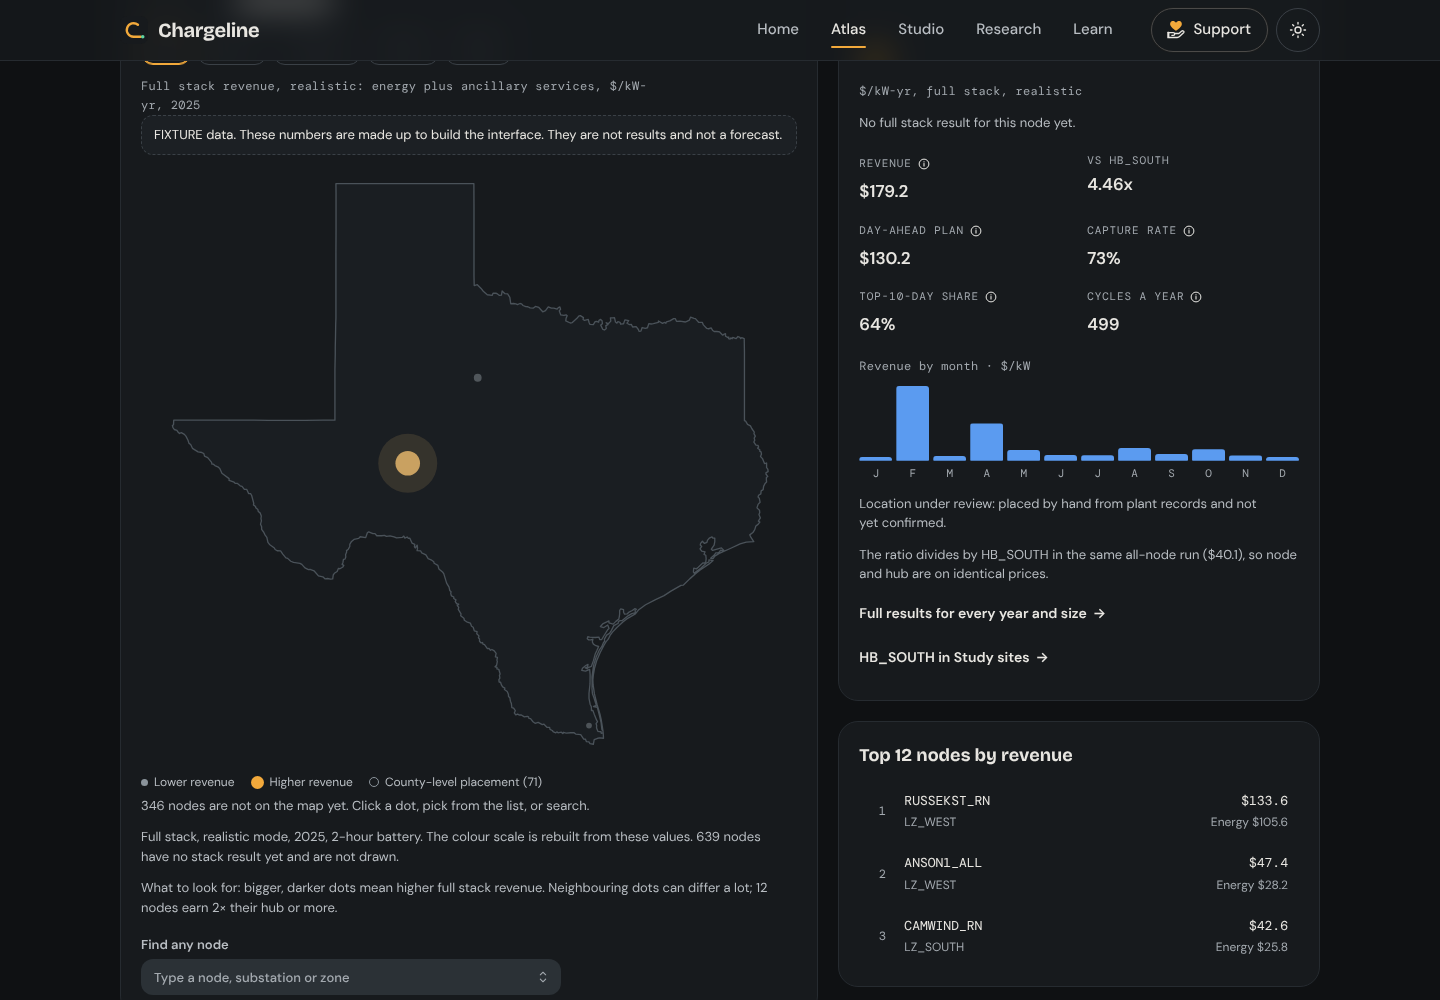
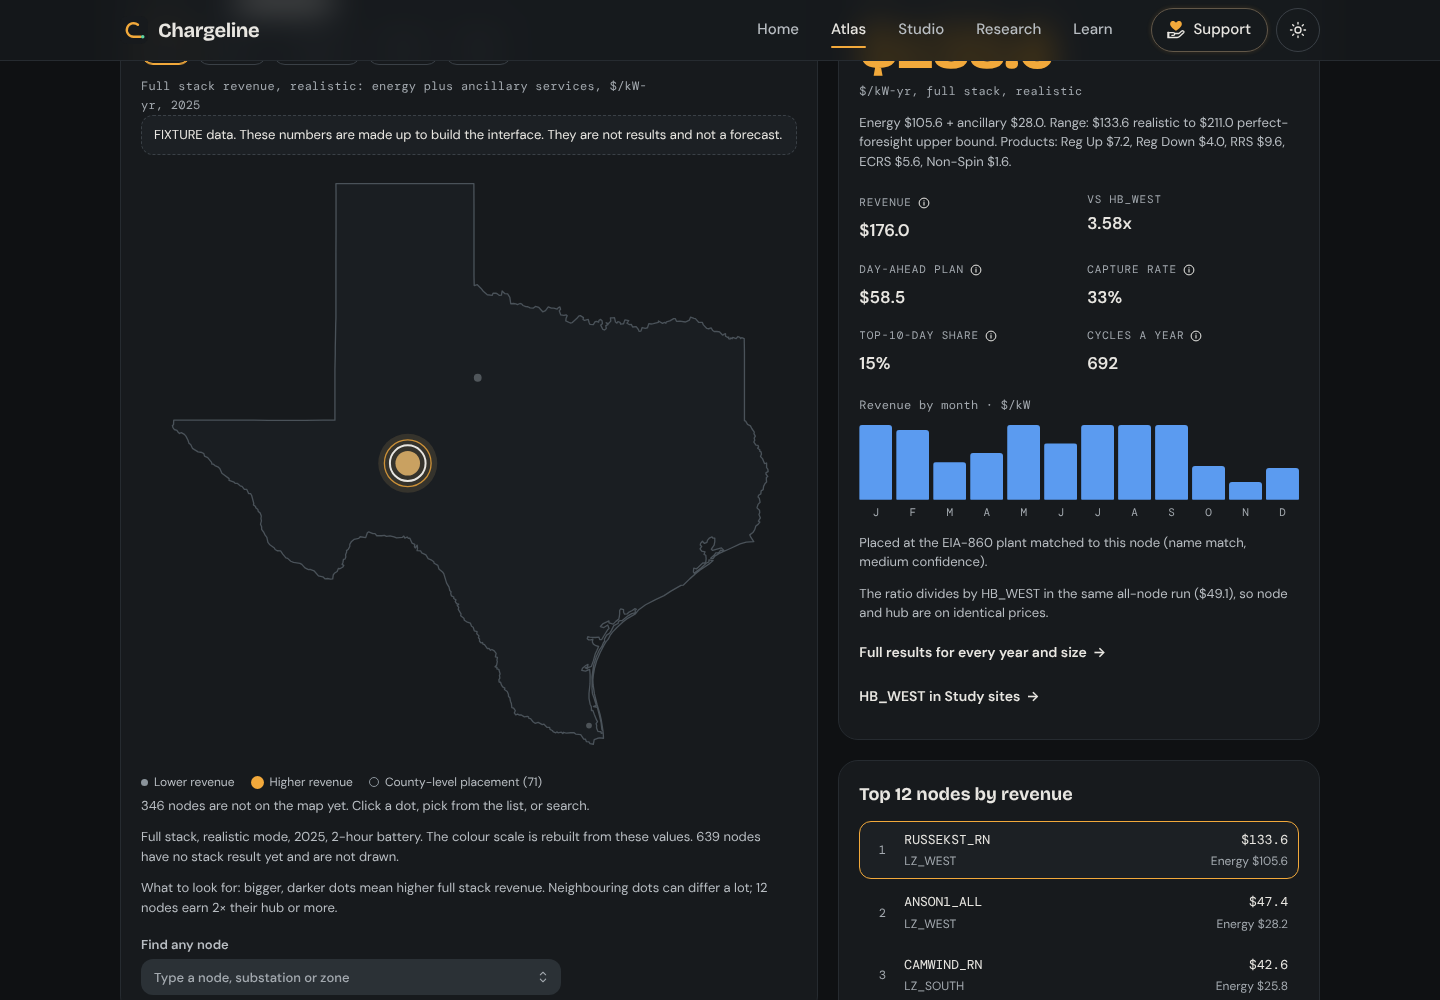
v4 step 6: final screenshots and progress file
Claude-Session: https://claude.ai/code/session_01KZpHqFQ8edx3NTcXd2bMX1

diff --git a/docs/v4-progress-6.md b/docs/v4-progress-6.md
@@ -1,22 +1,29 @@
 # v4 Step 6 progress: revenue stack UI (C)
 
-Branch `v4/6-stack-ui`, from `main`. Plan: PLAN_V4.md Step 6 (attached to the session; `docs/PLAN_V4.md` is not on `main` yet).
+Branch `v4/6-stack-ui`, from `main`. Plan: PLAN_V4.md Step 6 (`docs/PLAN_V4.md` is not on `main` yet).
 
 ## Decisions
-- Step 1 is not merged. UI is built against a FIXTURE in the exact Stack results schema: `web/fixtures/v4/stack/*.json`
-  (3 hubs, 3 nodes, 2025 and 2026, 2 h and 4 h, both modes). Every value is made up. Regenerate with `node web/scripts/make-stack-fixture.mjs`.
+- Step 1 is not merged. The UI is built against a FIXTURE in the exact Stack results schema: `web/fixtures/v4/stack/*.json`
+  (3 hubs, 3 nodes, 2025 and 2026, 2 h and 4 h, both modes). Every value is made up and marked FIXTURE in `meta`; the UI shows a banner.
+  Regenerate with `node web/scripts/make-stack-fixture.mjs`.
 - The fixture is served only when `V4_FIXTURE=1` is set for `npm run prepare-data`. Real `results/v4/stack/` wins when it exists.
-- `web/src/config/features.ts` does not exist (Step 3). A local stub `web/src/v4/flag.ts` has the same contract
-  (`V4`: `VITE_V4=1` or `?v4=1`). When Step 3 merges, change the one import in `flag.ts` to re-export from `config/features`.
+- `web/src/config/features.ts` does not exist (Step 3). Local stub `web/src/v4/flag.ts` has the same contract
+  (`V4`: `VITE_V4=1` or `?v4=1`). When Step 3 merges, make `flag.ts` re-export from `config/features`.
+- Assumption to check against Step 1: stack values are annualized $/kW-yr. A partial year is labelled "YTD (N months)".
+- Atlas Full stack uses the realistic file (the mode every node gets in Tier 2). The upper bound (foresight) shows as a range on the node card when the file has the node.
+- RTC+B go-live date lives in `web/src/v4/config.ts` with a source; a test pins it to `results/rtcb.json`.
 
 ## Status
-- [ ] fixture + generator
-- [ ] data layer (types, loader, copy-data, config)
-- [ ] Atlas: Energy | Full stack switch
-- [ ] Revenue page: stacked bar by year, pre/post RTC+B marker, upper-bound marker
-- [ ] Studio: precomputed stack note
-- [ ] tests, screenshots, PR ready
+- [x] fixture + generator
+- [x] data layer (types, loader, copy-data, config)
+- [x] Atlas: Energy | Full stack switch
+- [x] Revenue page: stacked bar by year, pre/post RTC+B marker, upper-bound diamond
+- [x] Studio: precomputed stack note
+- [x] tests: 517 pass (`npm test`), build passes with `V4_FIXTURE=1`
+- [x] screenshots (4) in `web/screenshots/v4-*.png`, no console errors, no overflow at 1440 and 390
+- [ ] pytest not run: not installed here, and no Python was touched
 
 ## Resume
 `cd web && npm ci && V4_FIXTURE=1 npm run prepare-data && VITE_V4=1 npx vite` then open `#/atlas`, `#/research/revenue`, `#/studio`.
-Tests: `npx vitest run src/v4 src/pages/Atlas.test.tsx`.
+Tests: `npx vitest run src/v4 src/pages/Atlas`.
+When Step 1 lands: delete nothing; real `results/v4/stack` takes over automatically. Check the annualization assumption above.
